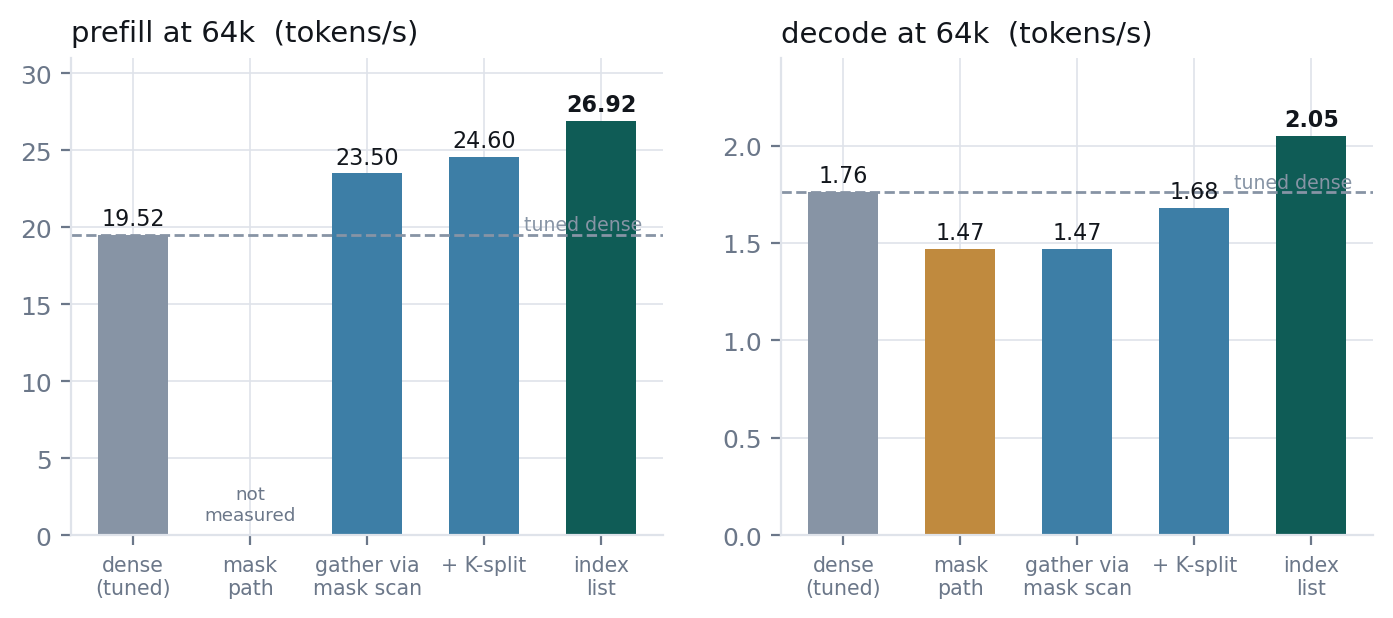
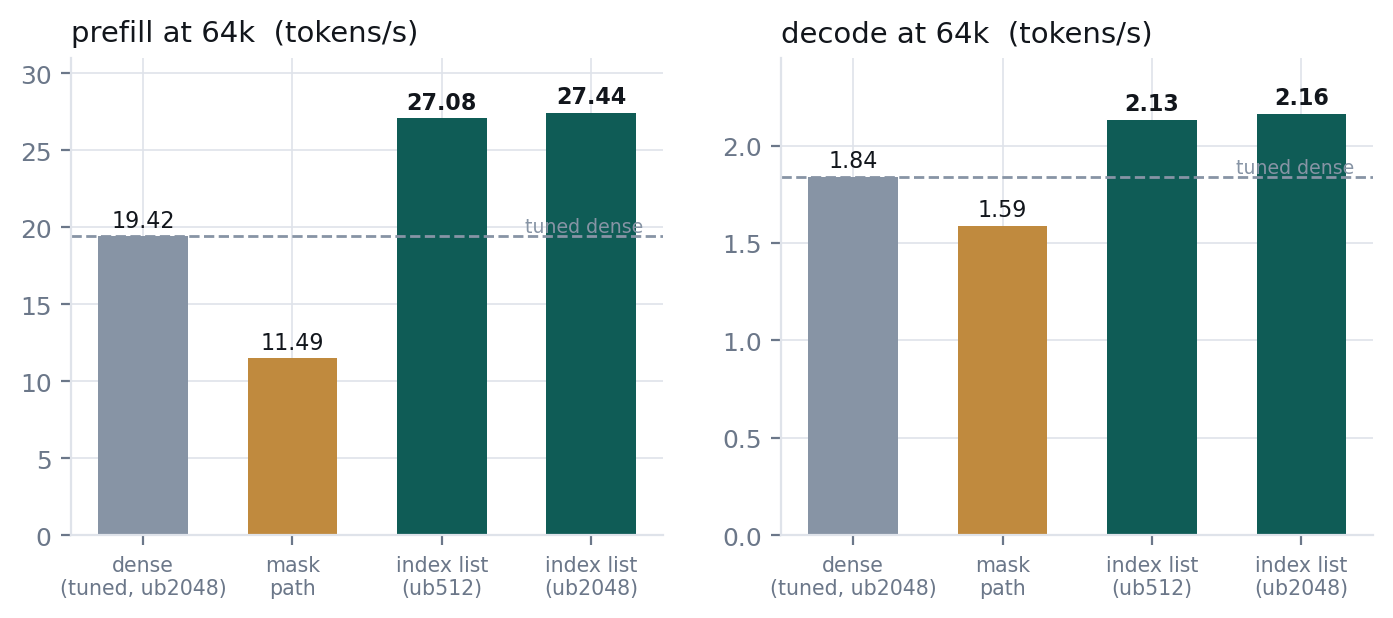
docs : redraw the figures from the clean measurements
The arms chart carried two intermediate arms (gather-via-mask-scan, +K-split)
that were only ever measured on our own conversion in a different
configuration. Mixing files inside one figure is the same defect the table had,
so they are gone; the chart now shows the four arms measured on the published
file with the GPUs hidden.

The compute-buffer chart stops at 64k. Its 128k point was never re-taken in
this configuration, and buffer allocation is not independent of whether CUDA is
present, so it is now quoted in prose as an earlier measurement rather than
plotted as if it belonged to this series.

Changed region(s): [[0.5556, 0.123, 0.9878, 0.9838], [0.0617, 0.123, 0.463, 0.9838]]

diff --git a/docs/msa/README.md b/docs/msa/README.md
@@ -93,8 +93,10 @@ claimed here. Quoting each arm at its own best `-ub` is the honest comparison ei
 
 ![compute buffer](compute-buffer.png)
 
-2,635 MiB at 128k where the mask path's own measured law predicts 34,446 MiB. Still `O(n_kv)` rather
-than flat like dense — something in this path still scales and has not been identified.
+1,350 MiB at 64k, where the mask path's own measured law predicts 17,258 MiB. Still `O(n_kv)`
+rather than flat like dense — something in this path scales and has not been identified. (A 128k
+point of 2,635 MiB was taken earlier against the same law's 34,446 MiB, but not re-measured in this
+configuration, so the chart stops at 64k.)
 
 ---
 
